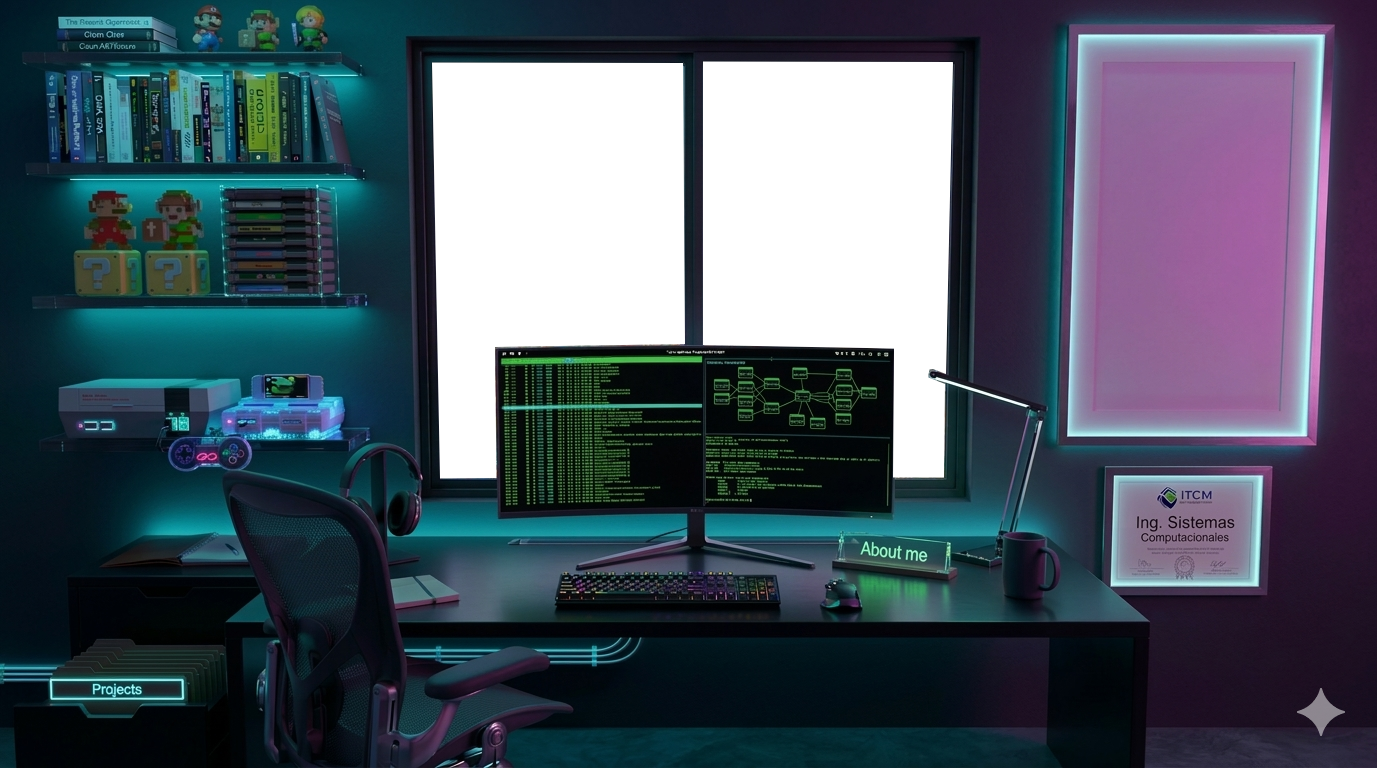
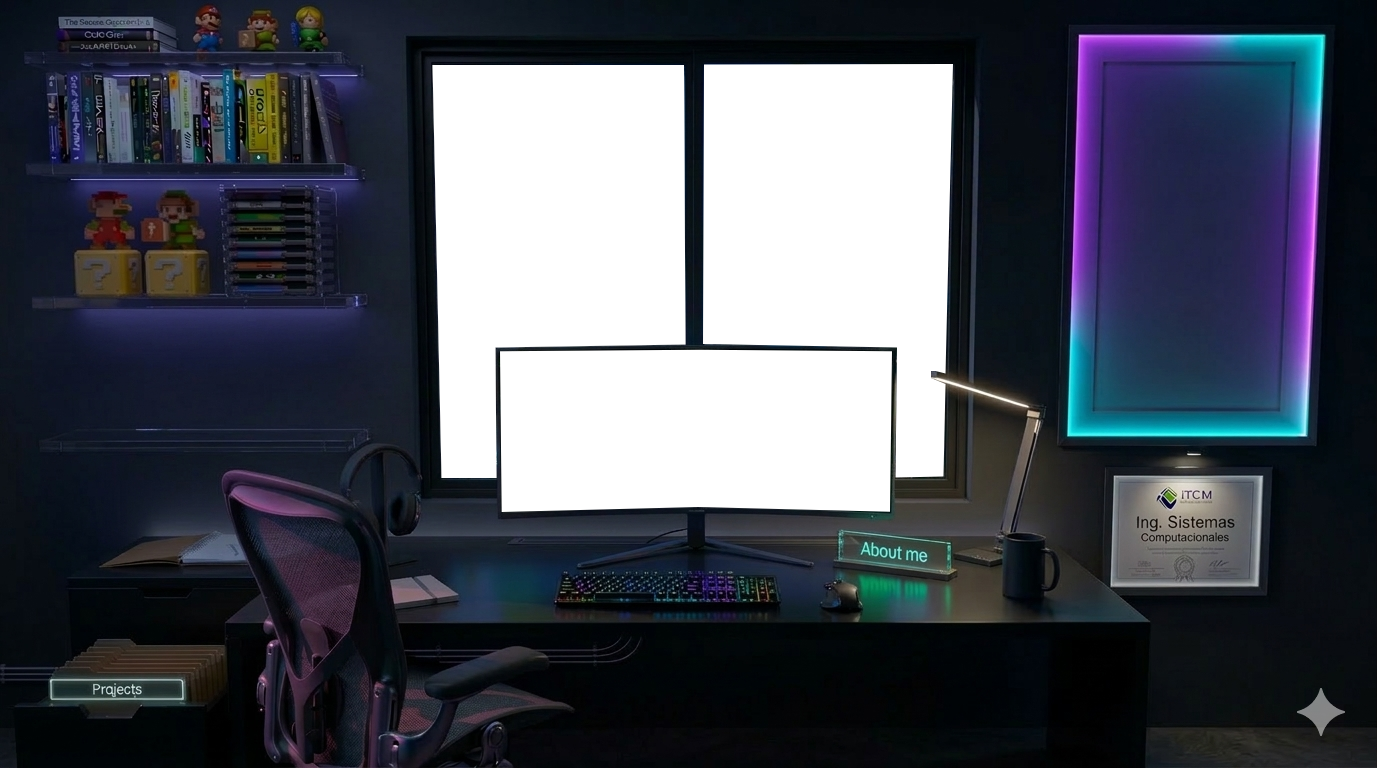
03142026

diff --git a/brutalism/portfolio-room2/script.js b/brutalism/portfolio-room2/script.js
@@ -443,6 +443,23 @@ function updateAmbientSound(theme) {
   newSound.fade(0, 0.35, 1000);
 }
 
+function stopAllSpatialSounds() {
+  Object.values(sounds).forEach((sound) => {
+    sound.fade(sound.volume(), 0, 300);
+    setTimeout(() => {
+      sound.pause();
+    }, 300);
+  });
+}
+
+function startAllSpatialSounds() {
+  Object.values(sounds).forEach((sound) => {
+    if (!sound.playing()) {
+      sound.play();
+    }
+  });
+}
+
 audioBtn.addEventListener("click", () => {
   const ambientSound = getAmbientSound();
 
@@ -451,12 +468,16 @@ audioBtn.addEventListener("click", () => {
     ambientSound.play();
     ambientSound.fade(0, 0.35, 1000);
 
+    startAllSpatialSounds();
+
     audioBtn.classList.add("active");
     audioBtn.innerText = "🔊 Ambient ON";
 
     playing = true;
   } else {
     ambientSound.fade(0.35, 0, 1000);
+
+    stopAllSpatialSounds();
 
     setTimeout(() => {
       ambientSound.pause();
@@ -538,3 +559,41 @@ toggleBtn.addEventListener("click", () => {
 const savedTheme = localStorage.getItem("theme") || "dark";
 
 setTheme(savedTheme);
+
+/* Gameboy */
+
+const gameboy = document.getElementById("gameboy");
+const playVideo = document.getElementById("playVideo");
+
+const overlay = document.getElementById("overlay");
+const closeOverlay = document.getElementById("closeOverlay");
+
+playVideo.addEventListener("click", () => {
+  alert("x");
+  setTimeout(() => {
+    unlockGameboy();
+  }, 3000);
+});
+
+function unlockGameboy() {
+  gameboy.style.display = "block";
+
+  gameboy.animate(
+    [
+      { transform: "translateY(-20px)", opacity: 0 },
+      { transform: "translateY(0)", opacity: 1 },
+    ],
+    {
+      duration: 600,
+      easing: "ease-out",
+    },
+  );
+}
+
+gameboy.addEventListener("click", () => {
+  overlay.style.display = "flex";
+});
+
+closeOverlay.addEventListener("click", () => {
+  overlay.style.display = "none";
+});

diff --git a/brutalism/portfolio-room2/styles.css b/brutalism/portfolio-room2/styles.css
@@ -253,8 +253,8 @@ filter:brightness(1.2);
 /* projects */
 
 .projects{
-bottom: 5%;
-left:2.5%;
+bottom: 2.5%;
+left:2.75%;
 width:13%;
 height:18%;
 }
@@ -262,18 +262,18 @@ height:18%;
 /* skills */
 
 .skills{
-top: 1%;
-left:3%;
-width:23%;
-height:40%;
+  top: 1.5%;
+  left:3%;
+  width:23%;
+  height:37%;
 }
 
 /* education */
 
 .education{
-bottom: 22%;
-right:8%;
-width:12%;
+bottom: 23%;
+right:7.35%;
+width:13%;
 height:16%;
 }
 
@@ -296,11 +296,11 @@ transform:scale(1.02);
 .poster{
 position:absolute;
 top:8.3%;
-right:6.6%;
-width:13%;
+right: 6.15%;
+width: 14.25%;
 height:45%;
 z-index:5;
-cursor:pointer;
+/*cursor:pointer;*/
 }
 
 .poster-img{
@@ -560,4 +560,58 @@ body.light-mode .ambient-audio-toggle{
   background: rgba(255,255,255,0.7);
   color: #111;
   border: 1px solid rgba(0,0,0,0.15);
+}
+
+/* Gameboy */
+/* Estante */
+.shelf{
+  width:200px;
+  height:120px;
+  border-bottom:8px solid #5c3d2e;
+  margin:40px;
+  position:relative;
+}
+
+/* Gameboy oculto al inicio */
+#gameboy{
+  width: 70px;
+  position: absolute;
+  bottom: 0;
+  left: 50%;
+  transform: translateX(-50%);
+  /*display:none; */
+  cursor:pointer;
+  background-color: blue;
+  z-index: 6;
+}
+
+/* Overlay */
+.overlay{
+  position:fixed;
+  top:0;
+  left:0;
+  width:100%;
+  height:100%;
+  background:rgba(0,0,0,0.8);
+  display:none;
+  justify-content:center;
+  align-items:center;
+}
+
+.overlay-content{
+  position:relative;
+}
+
+.overlay img{
+  max-width:400px;
+  border-radius:8px;
+}
+
+#closeOverlay{
+  position:absolute;
+  top:-30px;
+  right:-30px;
+  color:white;
+  font-size:30px;
+  cursor:pointer;
 }

diff --git a/brutalism/portfolio-room2/index.html b/brutalism/portfolio-room2/index.html
@@ -126,7 +126,7 @@
 
       <div class="hotspot education" data-label="Education"></div>
 
-      <div class="hotspot game" data-label="Play Game"></div>
+      <!-- <div class="hotspot game" data-label="Play Game"></div> -->
 
       <div class="poster">
 
@@ -136,7 +136,26 @@
 
       </div>
 
+
+
+
     </div>
+
+
+    <!--     <div class="shelf">
+      <div id="gameboy-slot">
+        <img id="gameboy" src="assets/images/gameboy.png" alt="Gameboy" />
+      </div>
+    </div>
+
+    <button id="playVideo">Ver mi historia</button>
+
+    <div id="overlay" class="overlay">
+      <div class="overlay-content">
+        <span id="closeOverlay">&times;</span>
+        <img src="assets/images/gameboy-camera.webp" alt="Mi recuerdo" />
+      </div>
+    </div> -->
 
 
 
